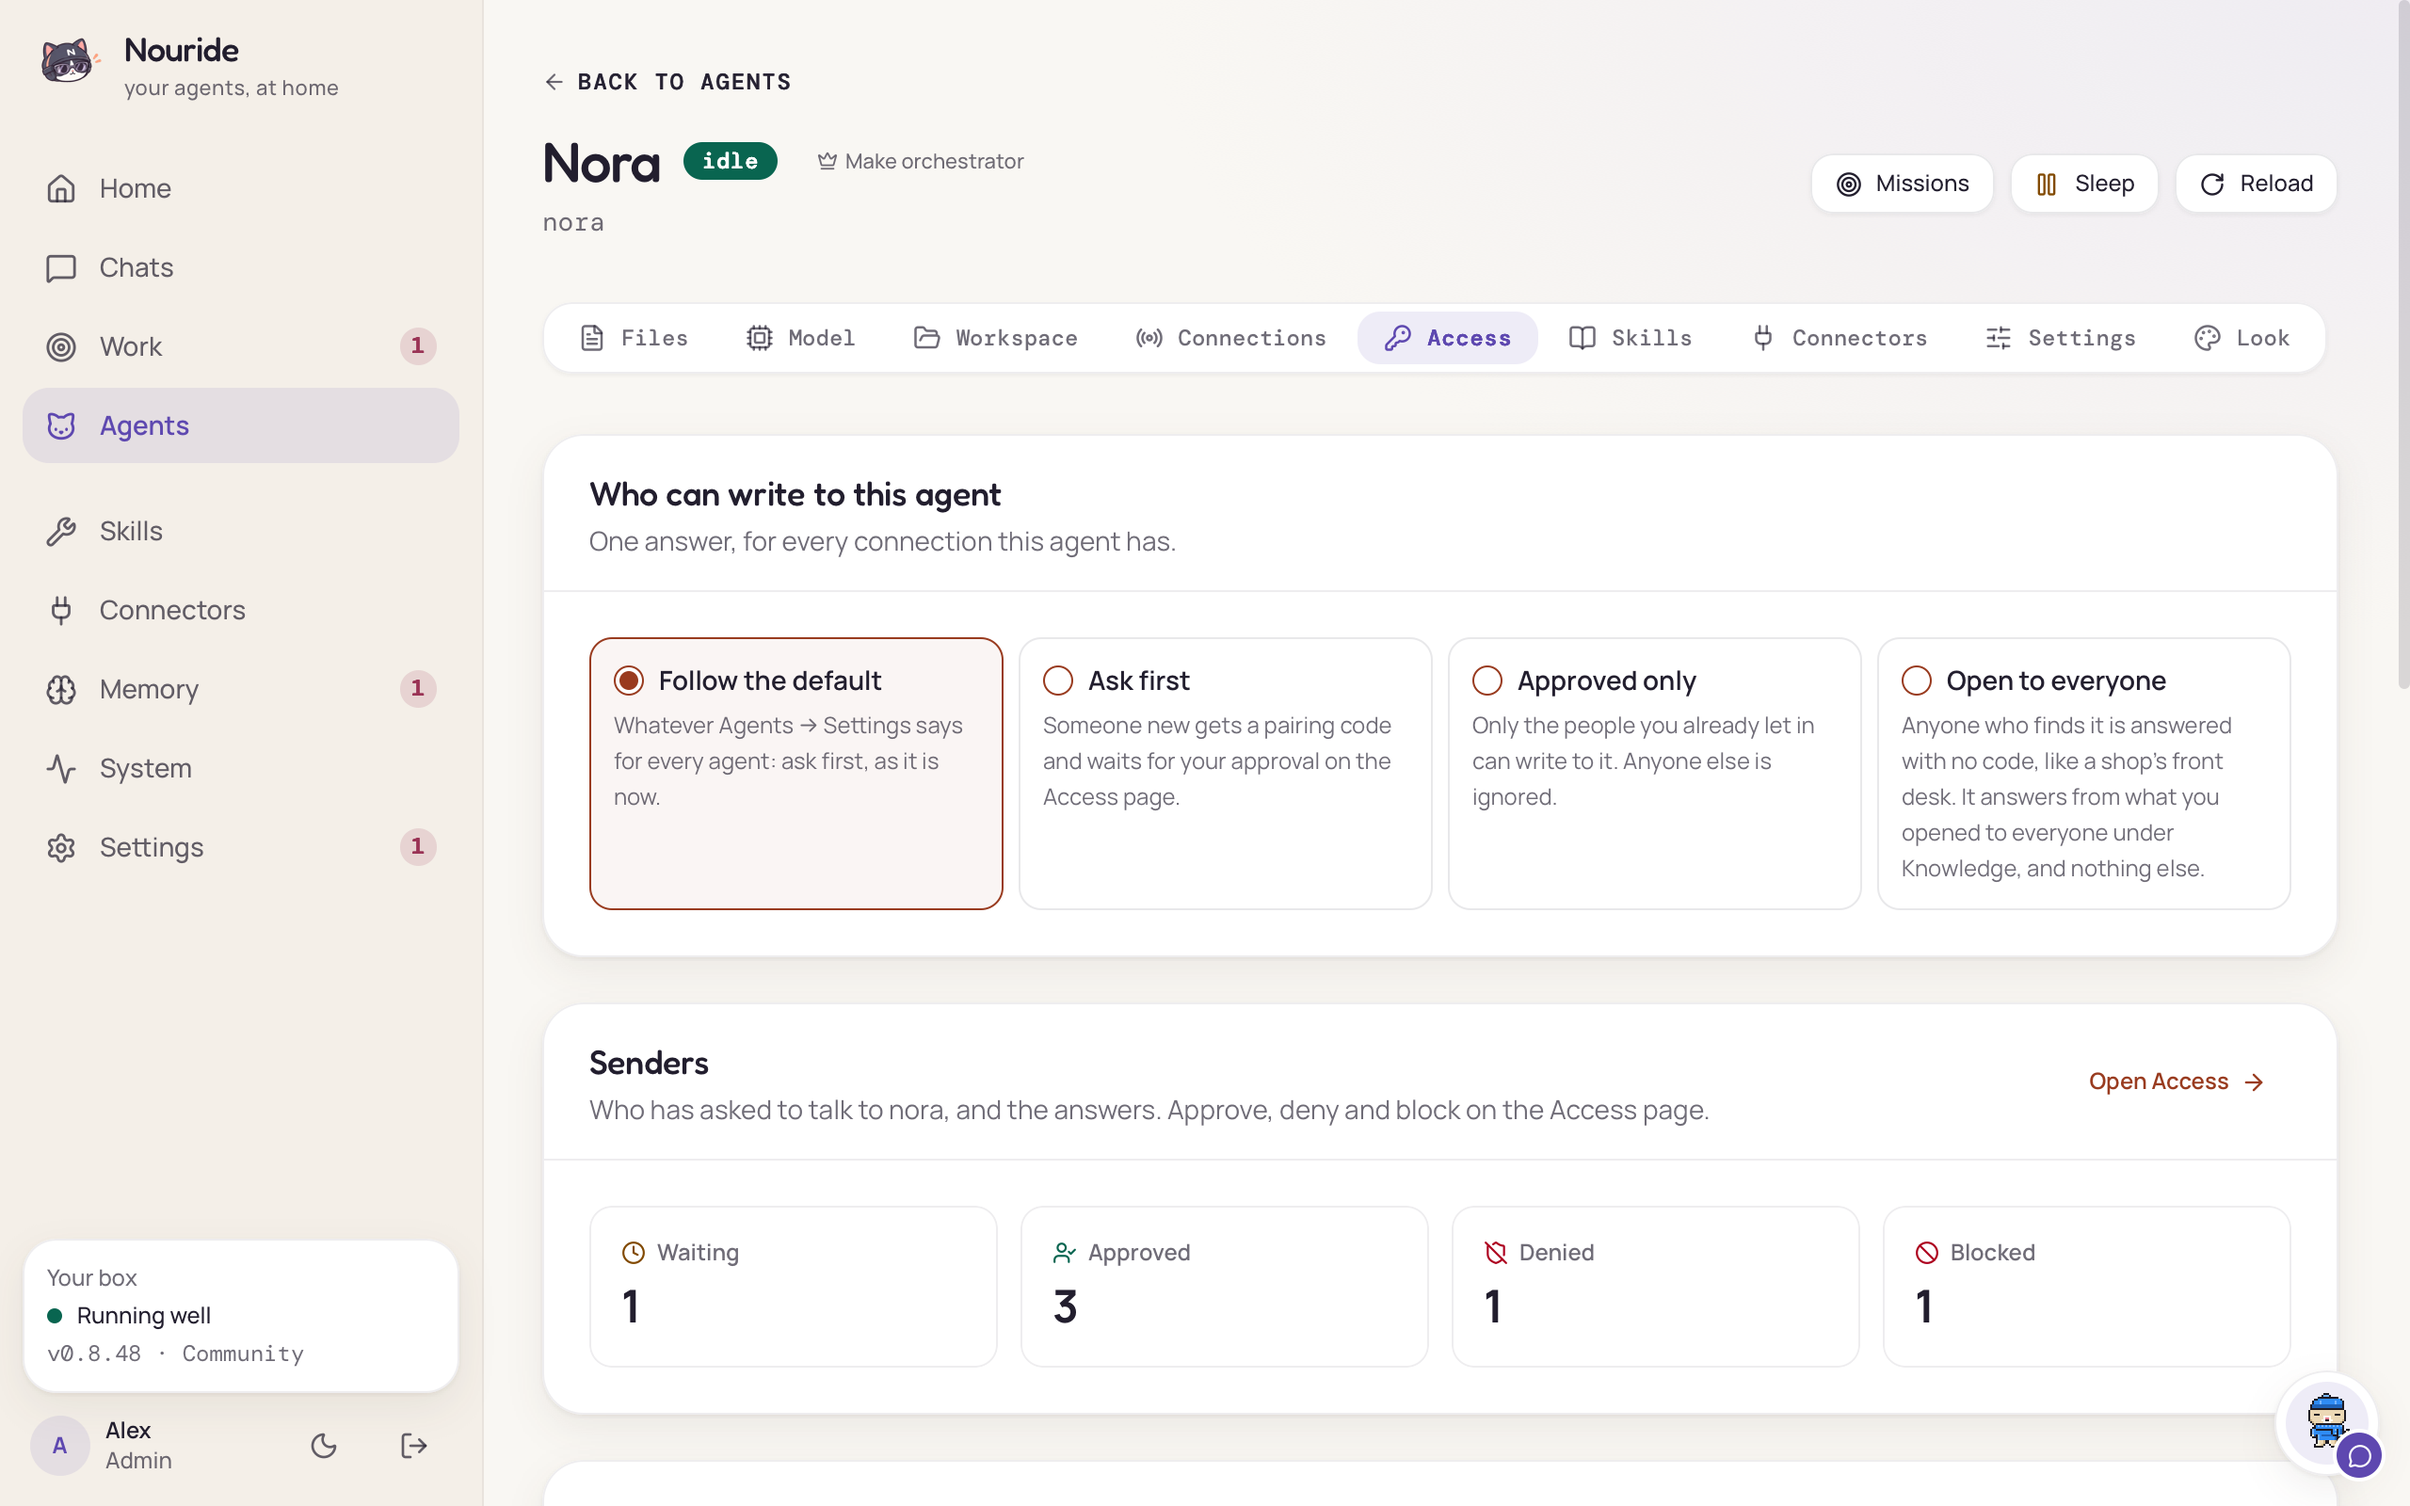
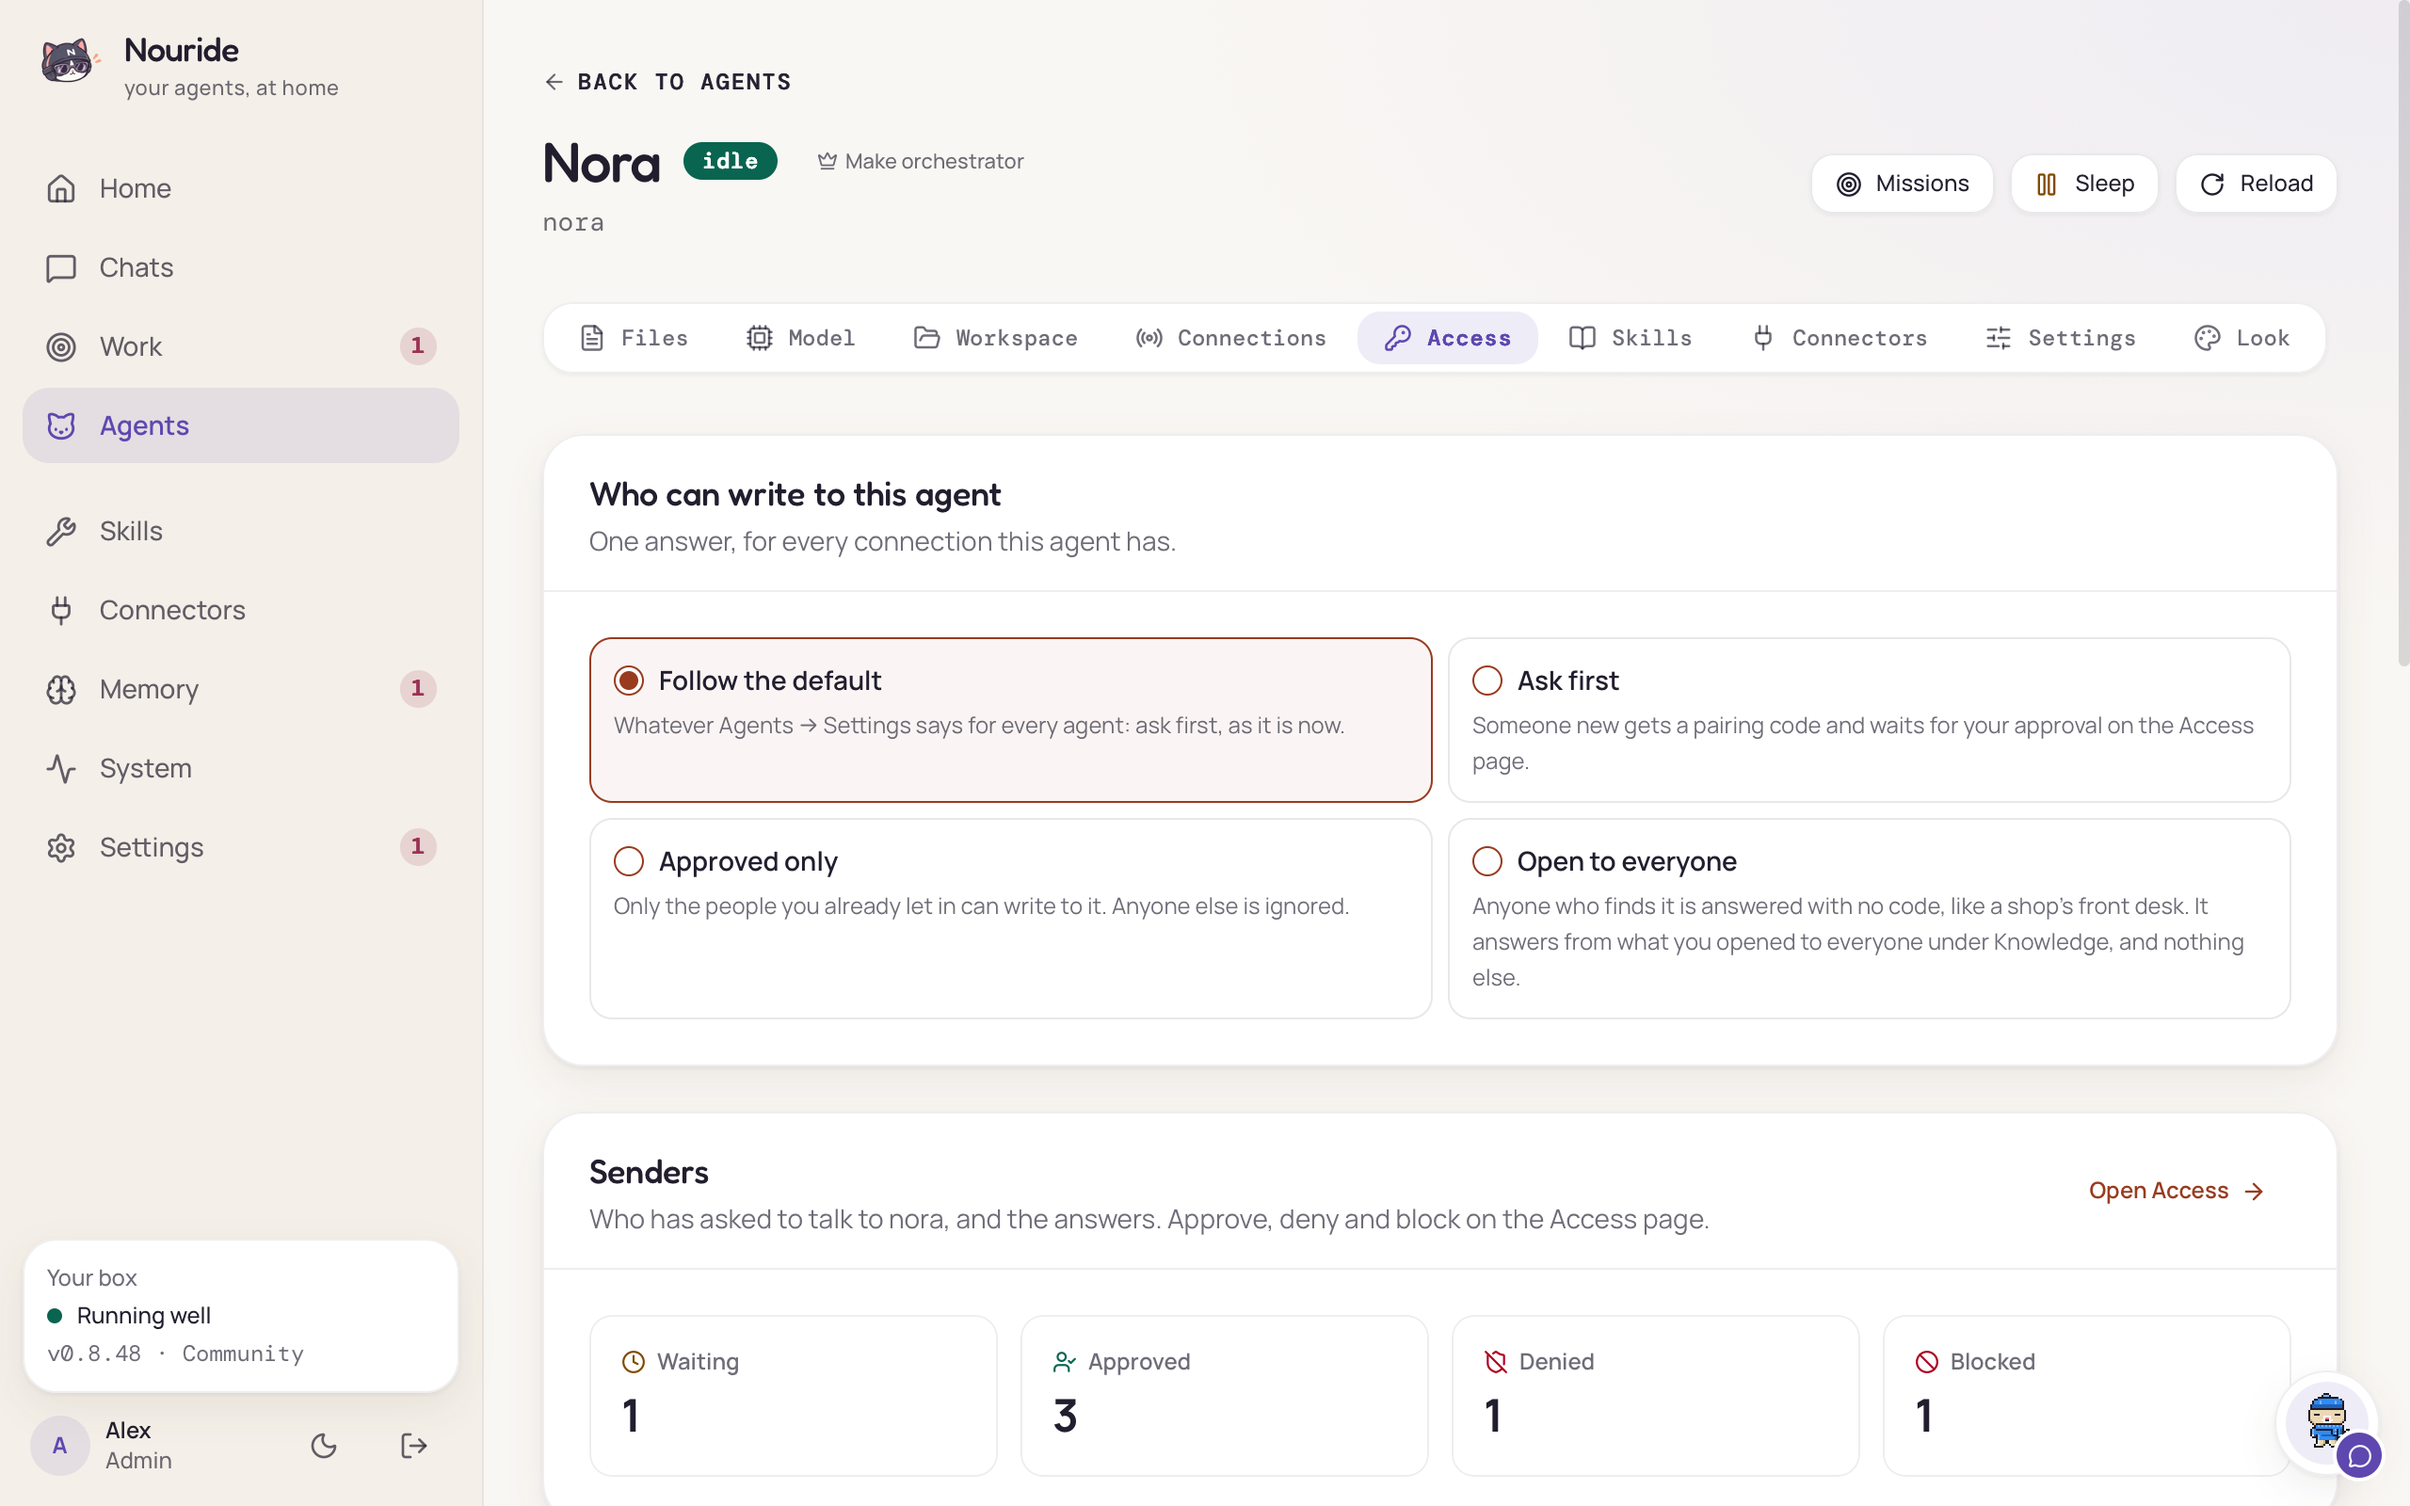
fix(dashboard): the four answers of who can write to an agent are two rows of two
Four in a row on a wide page left each answer a thin column: a short name over five lines of small words. The owner,
on the box: "split them 2x2, 2x2 on a big screen". Two columns from the first width that holds two, at every width
above it; a phone keeps one under another. The manual's picture of the tab is taken again.

Seen in WebKit from the built dashboard, as a phone, a laptop and a desktop, light and dark, in three states: 114 of
114 checks, the new ones being where each answer is (two rows of two with the columns in line, or one column on a
phone).

diff --git a/apps/dashboard/src/modules/agents/components/AgentAccessMode.tsx b/apps/dashboard/src/modules/agents/components/AgentAccessMode.tsx
@@ -53,7 +53,8 @@ export function AgentAccessMode({ agent }: { agent: AgentSummary }) {
 
   return (
     <Card title="Who can write to this agent" description="One answer, for every connection this agent has.">
-      <div className={`grid grid-cols-1 gap-2 sm:grid-cols-2 ${open ? "xl:grid-cols-4" : "xl:grid-cols-3"}`}>
+      {/* Two rows of two on a wide page as on a narrow one: four in a row left each answer a thin column of words. */}
+      <div className={`grid grid-cols-1 gap-2 ${open ? "sm:grid-cols-2" : "sm:grid-cols-3"}`}>
         {options.map((option) => {
           const off = !admin || save.isPending || option.never === true;
           return (
